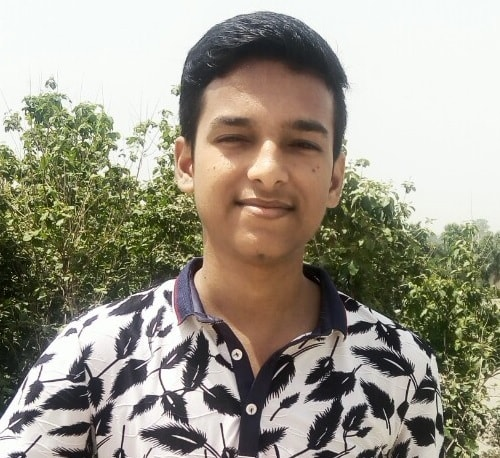
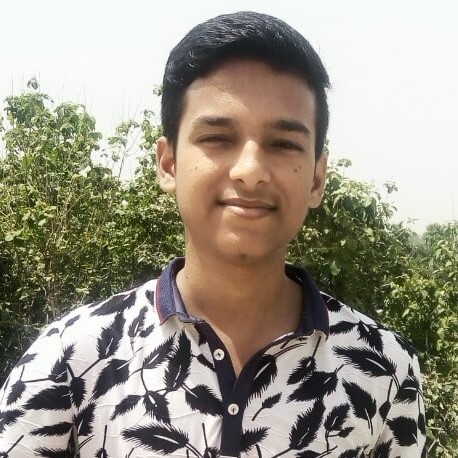
updates portfolio image and main info

diff --git a/index.html b/index.html
@@ -30,7 +30,7 @@
     <header>
       <div id="head-section">
         <div id="image-logo" class="home-image-logo">
-          <img src="images/photo.jpeg" alt="Logo Image" />
+          <img src="images/about.jpg" alt="Logo Image" />
         </div>
         <div class="menu-open" title="Open Menu">
           <img src="images/icons/menu.svg" alt="Menu Open" />
@@ -46,12 +46,12 @@
     <div id="main-bg">
       <div id="main-about">
         <div id="main-img">
-          <img src="images/photo.jpeg" alt="Main Image" />
+          <img src="images/about.jpg" alt="Main Image" />
         </div>
         <div id="main-info">
-          Hey! I am Aaditya Bhusal. I am a Software Engineer and a Full-Stack
-          Web Developer currently studying Software Engineering from University
-          of Northampton.
+          Hey! I am Aaditya Bhusal. I am a Front-end Software Engineer gradute
+          in B.Sc (Honors) of Software Engineering from University of
+          Northampton.
           <div class="icon-list">
             <a
               href="https://github.com/aadityabhusal"
